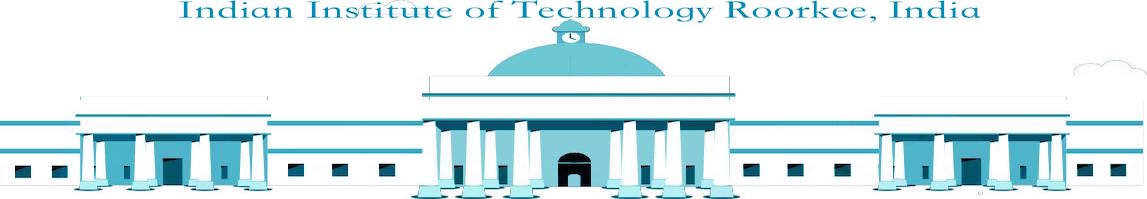
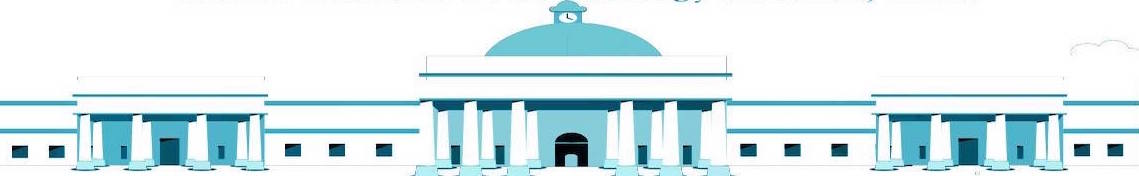
Title Change
title image changes
students images
few links
etc.

diff --git a/index.html b/index.html
@@ -3,15 +3,19 @@ layout: single
 author_profile: true
 
 header:
-  image: images/myiitr.jpg 
-  caption: "<a href=\"https://www.iitr.ac.in\">Indian Institute of Technology Roorkee, India</a>"
+  image: images/iitr.jpg 
+  caption: "<a href=\"https://www.iitr.ac.in\">Indian Institute of Technology Roorkee</a><br>Department of Computer Science and Engineering"
 ---
+
 <div>
-  <h3>Research Interest</h3>
-  <div>
-    Cloud Computing, Energy Efficiency, Resource Management, Load Balancing, Security, Trust, Virtualization, Mobile and Wireless Communications, Ad-hoc Networks, Sensor Networks, Pervasive Computing, Ubiquitous Computing, Cellular Networks, Network Security, Static Analysis, Behavioral Analysis, Anomaly Detection, IDS, DDoS detection, etc
-  </div>
+    <h3>Brief Profile</h3>
+I have been in teaching and research for the past 20 years and working in the research areas like <b>Cloud Computing, Ubiquitous Computing, HPC and related Security </b> concerns. So far, I have guided <i>04 doctoral</i> and <i>38 Masters</i> students and currently 05 doctoral and 02 Master-level students are working with me. I have published more than 50 research papers (few were recognized as the <b>best papers</b>) in reputed conferences like <b>TrustCom</b>, MASS, ICDCN, NCC, and ISC, and in journals like <b>IEEE Potentials</b>, MTAP, WPC, and Sadhana. I have published one book and another book is in press. My research is funded by, NMHS, MEITY, Railtel Co., India, and IBM with the total worth of around USD 400000. My work is also supported by Microsoft with USD 27000 in the form of Educator Award. The MHRD, DST, IBM, and CSI sponsored the travel to the conferences. I was the recipient of <b>Best Teacher award</b> in my previous employment and ranked 4th in University during the Masters’ programme. I have developed the courses like Cloud Computing, Advanced Computer Networks, and Operating Systems. I was the board of studies member for JNTU, Anantapur, and currently the member of committees like <b>IAPC, DAPC, DRC, DAC, and DPC</b>, and also the Office-in-Charge for Masters’ Program. In my previous employment, almost more than seven years, I acted as Head of the departments of CSE, and IT in my previous employment. I was also the <b>Staff Advisor</b> for Software Development Section.
+
+I have been contributing to several professional ACM, IEEE, OPF, and DMTF. I am the <b>founding faculty sponsor</b> for ACM Students Chapter at IIT Roorkee. I am also acting as <b>Secretary</b> for IEEE Roorkee subsection and <b>Vice-Chair</b> for IEEE CS Execom, India. I have been in conference management for several conferences including <b>IEEE MASS, IEEE ATC, IEEE SmartComp, and IEEE iNIS </b> at the capacity of General Chair, General Co-Chair, Publication Co-Chair, Session Chair, and Program Committee. I am the member of <b>editorial board</b> for several journals. I am the <i>reviewer</i> for <b>IEEE TCC, IEEE TSC, MTAP, COSE, COMNET, JNCA</b>, and many others.
+
+
 </div>
+
 
 <!--
 <div>

diff --git a/students.html b/students.html
@@ -1,6 +1,44 @@
 ---
 layout: single
 author_profile: true
+toc: false
+toc_label: "Students Working With Me"
+gallery:
+  - url: images/anuradharavi.jpg
+    image_path: images/anuradharavi.jpg
+    alt: "Anuradha Ravi"
+    title: "Anuradha Ravi"
+  - url: images/shitalaprasad.jpeg
+    image_path: images/shitalaprasad.jpeg
+    alt: "Shitala Prasad"
+    title: "Shitala Prasad"
+  - url: images/shreegarg.jpg
+    image_path: images/shreegarg.JPG
+    alt: "Shree Garg"
+    title: "Shree Garg"
+
+gallery2:
+  - url: images/anshularora.jpg
+    image_path: images/anshularora.jpg
+    alt: "Anshul Arora"
+    title: "Anshul Arora"
+  - url: images/ajay.jpg
+    image_path: images/ajay.jpg
+    alt: "Ajay Choudhary"
+    title: "Ajay Choudhary"
+  - url: images/vikas.jpg
+    image_path: images/vikas.jpg
+    alt: "Vikas Chouhan"
+    title: "Vikas Chouhan"
+  - url: images/animeshkuity.jpg
+    image_path: images/animeshkuity.jpg
+    alt: "Animesh Kuity"
+    title: "Animesh Kuity"
+  - url: images/surabhisharma.png
+    image_path: images/surabhisharma.png
+    alt: "Surabhi Sharma"
+    title: "Surabhi Sharma"
+
 ---
 <div class="students">
   <h2>Students</h2>
@@ -13,11 +51,16 @@ author_profile: true
             <li> {{stud.year}}: {% if stud.url %}<a href="{{stud.url}}">{% endif %}{{stud.name}} {% if stud.url %} </a> {% endif %}: {{stud.desig}}, {{stud.job}} </li>
             {% endif %}
 		{% endfor %}
-    -->
 
+{% include figure image_path="/images/iitr.jpg" %} 
+
+    -->
     <li><b>#Completed:</b></li>
+    {% include gallery caption="**Ph.D Students** who worked with me were awarded the degree" %}
       {% include phdcompleted.html %}    
+    }
     <li><b>#Ongoing:</b></li>
+    {% include gallery id="gallery2" caption="**Ph.D Students** who worked with me were awarded the degree" %}
       {% include phdongoing.html %} 
 
 	</ol>

diff --git a/research.html b/research.html
@@ -1,14 +1,18 @@
 ---
 layout: single
 author_profile: true
+toc: true
+toc_label: "Research Outcomes"
 ---
 <div class="research">
-
+<!--
 <a href="#interests"> Research Interests</a> &nbsp;&nbsp;
 <a href="#projects"> Research Projects</a> &nbsp;&nbsp;
 <a href="#publications"> Research Publications</a> &nbsp;&nbsp;
 <a href="#visitsabroad"> Countries Visisted</a> &nbsp;&nbsp;
 
+{% include toc %}
+-->
   <div class="interests">
     <h2 id="interests">Research Interests</h2>
     Cloud Computing, Energy Efficiency, Resource Management, Load Balancing, Security, Trust, Virtualization, Mobile and Wireless Communications, Ad-hoc Networks, Sensor Networks, Pervasive Computing, Ubiquitous Computing, Cellular Networks, Network Security, Static Analysis, Behavioral Analysis, Anomaly Detection, IDS, DDoS detection, etc
@@ -16,7 +20,7 @@ author_profile: true
 
 
   <div class="projects">
-    <h2 id="projects">External Cash Flow / Sponsored Research Projects</h2>
+    <h2 id="cashflow">External Cash Flow / Sponsored Research Projects</h2>
 
          <h3 id="projects">Research Projects </h3>
     <ul>

diff --git a/projects_example.html b/projects_example.html
@@ -1,0 +1,15 @@
+---
+layout: single
+author_profile: true
+---
+<div class="projects">
+  <h2>Projects</h2>
+		<ul>
+			{% for proj in site.data.projects %}
+            <li> {{proj.name}}, <b>{{proj.desig}}</b>, {{proj.job}}, {{proj.duration}}, {{proj.amount}}
+            		{% if proj.image %}<br><img style="height: 100%; width: 30em;" src="{{ proj.image }}">{%else %}no image{% endif %}
+            </li>
+		{% endfor %}
+
+	</ul>
+</div>

diff --git a/assets/css/main.scss b/assets/css/main.scss
@@ -38,11 +38,30 @@ html {
 }
 
 .page__hero-image {
-  height: 22em;
+  height: 10em;
+}
+
+
+.page__hero-caption {
+    top: 0;
+    left: 0;
+    bottom: auto;
+    right: auto;
+    border-radius: 0 0 4px 0;
+    background: transparent;
+    color: black;
+    font-size: 1em;
+
+    a {
+      color: black;
+    }
 }
 
 .from-tex {
     font-size: 18px !important;
 }
 
+.sidebar {
+  opacity: 1;
+}
 

diff --git a/_includes/membership.html b/_includes/membership.html
@@ -2,7 +2,7 @@
      <ul class="itemize1">
      <li class="itemize">Senior Member, IEEE # 90899329
      </li>
-     <li class="itemize">Member, ACM # 7294182
+     <li class="itemize">Senior Member, ACM # 7294182
      </li>
      <li class="itemize">Member, IEEE Computer Society
      </li>

diff --git a/activities.html b/activities.html
@@ -1,6 +1,8 @@
 ---
 layout: single
 author_profile: true
+toc: true
+toc_label: "Professional Activities"
 ---
         <h1>Professional Activities</h1>
 <div class="activites">

diff --git a/_includes/footer/custom.html b/_includes/footer/custom.html
@@ -1,1 +1,1 @@
-Sample text
+IIT Roorkee

diff --git a/_tex/membership.tex b/_tex/membership.tex
@@ -1,7 +1,7 @@
 \begin{itemize}
 	\item[--] Senior Member, IEEE  \# 90899329
 	\item[--]
-	Member, ACM  \#  7294182
+	Senior Member, ACM  \#  7294182
 	\item[--]
 	Member, IEEE Computer Society 
 	\item[--]
